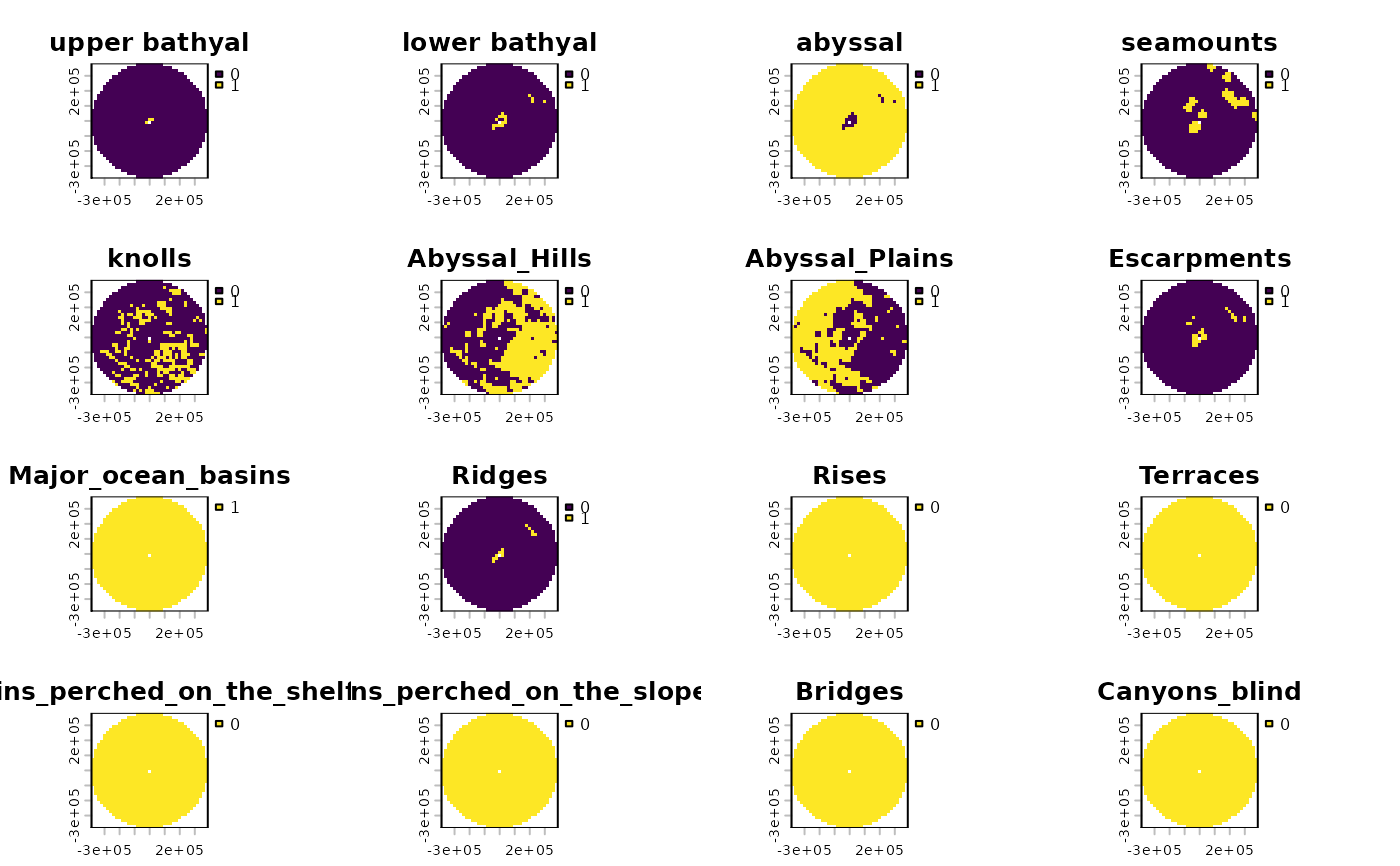
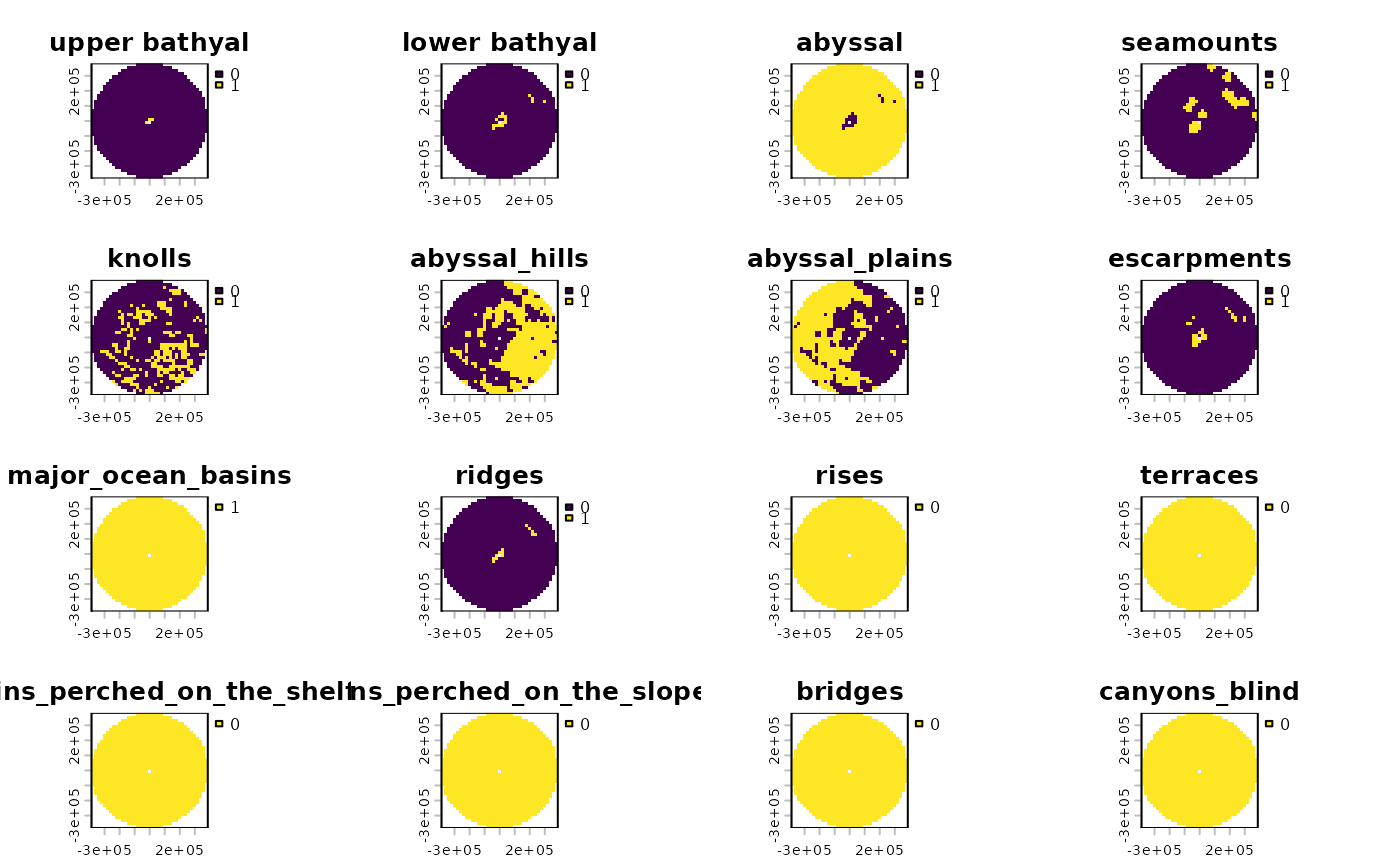
Deploying to gh-pages from @ emlab-ucsb/oceandatr@0b45abaec1e8cd2b5c26dff977d3adb7f58db5a4 🚀

diff --git a/news/index.html b/news/index.html
@@ -39,6 +39,16 @@
 <h2 class="pkg-version" data-toc-text="development version" id="oceandatr-development-version">oceandatr (development version)<a class="anchor" aria-label="anchor" href="#oceandatr-development-version"></a></h2>
 </div>
     <div class="section level2">
+<h2 class="pkg-version" data-toc-text="0.2.5" id="oceandatr-025">oceandatr 0.2.5<a class="anchor" aria-label="anchor" href="#oceandatr-025"></a></h2>
+<ul><li>Remove all data - this is now in the separate <code>oceandatrsets</code> package</li>
+<li>Update data references to use <code>oceandatrsets</code>
+</li>
+<li>Add <code>oceandatrsets</code> dependency</li>
+<li>Use <code>pak</code> instead of <code>remotes</code> for Github install (<code>remotes</code> is superseded)</li>
+<li>Use R-Universe for <code>gfwr</code> install</li>
+<li>Remove some get_features() tests that take a long time and are repeating individual function tests</li>
+</ul></div>
+    <div class="section level2">
 <h2 class="pkg-version" data-toc-text="0.2.4" id="oceandatr-024">oceandatr 0.2.4<a class="anchor" aria-label="anchor" href="#oceandatr-024"></a></h2>
 <ul><li>Switch to <code>rerddap</code> package for downloading Bio-Oracle data</li>
 <li>Remove <code>biooracler</code> dependency</li>

diff --git a/index.html b/index.html
@@ -68,10 +68,9 @@
 </h2>
 <p>You can install oceandatr from <a href="https://github.com/" class="external-link">GitHub</a> with:</p>
 <div class="sourceCode" id="cb1"><pre class="downlit sourceCode r">
-<code class="sourceCode R"><span><span class="kw">if</span> <span class="op">(</span><span class="op">!</span><span class="kw"><a href="https://rdrr.io/r/base/library.html" class="external-link">require</a></span><span class="op">(</span><span class="va"><a href="https://remotes.r-lib.org" class="external-link">remotes</a></span><span class="op">)</span><span class="op">)</span> <span class="fu"><a href="https://rdrr.io/r/utils/install.packages.html" class="external-link">install.packages</a></span><span class="op">(</span><span class="st">"remotes"</span><span class="op">)</span></span>
-<span><span class="co">#might need to increase timeout as it is a large package</span></span>
-<span><span class="fu"><a href="https://rdrr.io/r/base/options.html" class="external-link">options</a></span><span class="op">(</span>timeout <span class="op">=</span> <span class="fl">9999</span><span class="op">)</span></span>
-<span><span class="fu">remotes</span><span class="fu">::</span><span class="fu"><a href="https://remotes.r-lib.org/reference/install_github.html" class="external-link">install_github</a></span><span class="op">(</span><span class="st">"emlab-ucsb/oceandatr"</span><span class="op">)</span></span></code></pre></div>
+<code class="sourceCode R"><span><span class="kw">if</span> <span class="op">(</span><span class="op">!</span><span class="kw"><a href="https://rdrr.io/r/base/library.html" class="external-link">require</a></span><span class="op">(</span><span class="va"><a href="https://pak.r-lib.org/" class="external-link">pak</a></span><span class="op">)</span><span class="op">)</span> <span class="fu"><a href="https://rdrr.io/r/utils/install.packages.html" class="external-link">install.packages</a></span><span class="op">(</span><span class="st">"pak"</span><span class="op">)</span></span>
+<span></span>
+<span><span class="fu">pak</span><span class="fu">::</span><span class="fu"><a href="https://pak.r-lib.org/reference/pkg_install.html" class="external-link">pkg_install</a></span><span class="op">(</span><span class="st">"emlab-ucsb/oceandatr"</span><span class="op">)</span></span></code></pre></div>
 </div>
 </div>
 <div class="section level1">

diff --git a/reference/get_coral_habitat.html b/reference/get_coral_habitat.html
@@ -111,8 +111,8 @@ models for the following species groups:</p><ul><li><p>Antipatharia: The global 
     <h2 id="ref-examples">Examples<a class="anchor" aria-label="anchor" href="#ref-examples"></a></h2>
     <div class="sourceCode"><pre class="sourceCode r"><code><span class="r-in"><span><span class="co"># Get EEZ data first</span></span></span>
 <span class="r-in"><span><span class="va">bermuda_eez</span> <span class="op">&lt;-</span> <span class="fu"><a href="https://emlab-ucsb.github.io/spatialgridr/reference/get_boundary.html" class="external-link">get_boundary</a></span><span class="op">(</span>name <span class="op">=</span> <span class="st">"Bermuda"</span><span class="op">)</span></span></span>
-<span class="r-msg co"><span class="r-pr">#&gt;</span> Cache is fresh. Reading: <span style="color: #0000BB;">/tmp/RtmpOrg3LK/eez-2205f12f/eez.shp</span></span>
-<span class="r-msg co"><span class="r-pr">#&gt;</span> (Last Modified: <span style="font-style: italic;">2026-05-19 08:39:47.622631</span>)</span>
+<span class="r-msg co"><span class="r-pr">#&gt;</span> Cache is fresh. Reading: <span style="color: #0000BB;">/tmp/Rtmp9V5OhW/eez-2205f12f/eez.shp</span></span>
+<span class="r-msg co"><span class="r-pr">#&gt;</span> (Last Modified: <span style="font-style: italic;">2026-05-28 01:04:26.162288</span>)</span>
 <span class="r-in"><span><span class="co"># Get raw coral habitat data</span></span></span>
 <span class="r-in"><span><span class="va">coral_habitat</span> <span class="op">&lt;-</span> <span class="fu">get_coral_habitat</span><span class="op">(</span>spatial_grid <span class="op">=</span> <span class="va">bermuda_eez</span>, raw <span class="op">=</span> <span class="cn">TRUE</span><span class="op">)</span></span></span>
 <span class="r-in"><span><span class="fu">terra</span><span class="fu">::</span><span class="fu"><a href="https://rspatial.github.io/terra/reference/plot.html" class="external-link">plot</a></span><span class="op">(</span><span class="va">coral_habitat</span><span class="op">)</span></span></span>

diff --git a/reference/get_ecoregion.html b/reference/get_ecoregion.html
@@ -97,8 +97,8 @@ the Ecoregion.</p>
     <h2 id="ref-examples">Examples<a class="anchor" aria-label="anchor" href="#ref-examples"></a></h2>
     <div class="sourceCode"><pre class="sourceCode r"><code><span class="r-in"><span><span class="co">#' # Get EEZ data first</span></span></span>
 <span class="r-in"><span><span class="va">bermuda_eez</span> <span class="op">&lt;-</span> <span class="fu"><a href="https://emlab-ucsb.github.io/spatialgridr/reference/get_boundary.html" class="external-link">get_boundary</a></span><span class="op">(</span>name <span class="op">=</span> <span class="st">"Bermuda"</span><span class="op">)</span></span></span>
-<span class="r-msg co"><span class="r-pr">#&gt;</span> Cache is fresh. Reading: <span style="color: #0000BB;">/tmp/RtmpOrg3LK/eez-2205f12f/eez.shp</span></span>
-<span class="r-msg co"><span class="r-pr">#&gt;</span> (Last Modified: <span style="font-style: italic;">2026-05-19 08:39:47.622631</span>)</span>
+<span class="r-msg co"><span class="r-pr">#&gt;</span> Cache is fresh. Reading: <span style="color: #0000BB;">/tmp/Rtmp9V5OhW/eez-2205f12f/eez.shp</span></span>
+<span class="r-msg co"><span class="r-pr">#&gt;</span> (Last Modified: <span style="font-style: italic;">2026-05-28 01:04:26.162288</span>)</span>
 <span class="r-in"><span><span class="co"># Get Marine Ecoregions of the World data</span></span></span>
 <span class="r-in"><span><span class="va">ecoregions</span> <span class="op">&lt;-</span> <span class="fu">get_ecoregion</span><span class="op">(</span>spatial_grid <span class="op">=</span> <span class="va">bermuda_eez</span>, raw <span class="op">=</span> <span class="cn">TRUE</span><span class="op">)</span></span></span>
 <span class="r-msg co"><span class="r-pr">#&gt;</span> Spherical geometry (s2) switched off</span>

diff --git a/reference/get_enviro_zones.html b/reference/get_enviro_zones.html
@@ -183,8 +183,8 @@ installations). To find the number of available cores on your systems run
     <h2 id="ref-examples">Examples<a class="anchor" aria-label="anchor" href="#ref-examples"></a></h2>
     <div class="sourceCode"><pre class="sourceCode r"><code><span class="r-in"><span><span class="co"># Get EEZ data first </span></span></span>
 <span class="r-in"><span><span class="va">bermuda_eez</span> <span class="op">&lt;-</span> <span class="fu"><a href="https://emlab-ucsb.github.io/spatialgridr/reference/get_boundary.html" class="external-link">get_boundary</a></span><span class="op">(</span>name <span class="op">=</span> <span class="st">"Bermuda"</span><span class="op">)</span></span></span>
-<span class="r-msg co"><span class="r-pr">#&gt;</span> Cache is fresh. Reading: <span style="color: #0000BB;">/tmp/RtmpOrg3LK/eez-2205f12f/eez.shp</span></span>
-<span class="r-msg co"><span class="r-pr">#&gt;</span> (Last Modified: <span style="font-style: italic;">2026-05-19 08:39:47.622631</span>)</span>
+<span class="r-msg co"><span class="r-pr">#&gt;</span> Cache is fresh. Reading: <span style="color: #0000BB;">/tmp/Rtmp9V5OhW/eez-2205f12f/eez.shp</span></span>
+<span class="r-msg co"><span class="r-pr">#&gt;</span> (Last Modified: <span style="font-style: italic;">2026-05-28 01:04:26.162288</span>)</span>
 <span class="r-in"><span><span class="co"># Get raw Bio-Oracle environmental data for Bermuda</span></span></span>
 <span class="r-in"><span><span class="va">enviro_data</span> <span class="op">&lt;-</span> <span class="fu">get_enviro_zones</span><span class="op">(</span>spatial_grid <span class="op">=</span> <span class="va">bermuda_eez</span>, raw <span class="op">=</span> <span class="cn">TRUE</span>, enviro_zones <span class="op">=</span> <span class="cn">FALSE</span><span class="op">)</span></span></span>
 <span class="r-msg co"><span class="r-pr">#&gt;</span> Retrieving environmental data from https://erddap.bio-oracle.org/erddap/, or disk if previously downloaded.</span>

diff --git a/reference/get_features.html b/reference/get_features.html
@@ -135,8 +135,8 @@ format.</p>
     <h2 id="ref-examples">Examples<a class="anchor" aria-label="anchor" href="#ref-examples"></a></h2>
     <div class="sourceCode"><pre class="sourceCode r"><code><span class="r-in"><span><span class="co"># Grab EEZ data first </span></span></span>
 <span class="r-in"><span><span class="va">bermuda_eez</span> <span class="op">&lt;-</span> <span class="fu"><a href="https://emlab-ucsb.github.io/spatialgridr/reference/get_boundary.html" class="external-link">get_boundary</a></span><span class="op">(</span>name <span class="op">=</span> <span class="st">"Bermuda"</span><span class="op">)</span></span></span>
-<span class="r-msg co"><span class="r-pr">#&gt;</span> Cache is fresh. Reading: <span style="color: #0000BB;">/tmp/RtmpOrg3LK/eez-2205f12f/eez.shp</span></span>
-<span class="r-msg co"><span class="r-pr">#&gt;</span> (Last Modified: <span style="font-style: italic;">2026-05-19 08:39:47.622631</span>)</span>
+<span class="r-msg co"><span class="r-pr">#&gt;</span> Cache is fresh. Reading: <span style="color: #0000BB;">/tmp/Rtmp9V5OhW/eez-2205f12f/eez.shp</span></span>
+<span class="r-msg co"><span class="r-pr">#&gt;</span> (Last Modified: <span style="font-style: italic;">2026-05-28 01:04:26.162288</span>)</span>
 <span class="r-in"><span><span class="co"># Get raw data for Bermuda's EEZ</span></span></span>
 <span class="r-in"><span><span class="va">raw_data</span> <span class="op">&lt;-</span> <span class="fu">get_features</span><span class="op">(</span>spatial_grid <span class="op">=</span> <span class="va">bermuda_eez</span>, raw <span class="op">=</span> <span class="cn">TRUE</span><span class="op">)</span></span></span>
 <span class="r-msg co"><span class="r-pr">#&gt;</span> Getting depth zones...</span>

diff --git a/reference/get_geomorphology.html b/reference/get_geomorphology.html
@@ -116,8 +116,8 @@ a more recent dataset using <code><a href="get_seamounts.html">get_seamounts()</
     <h2 id="ref-examples">Examples<a class="anchor" aria-label="anchor" href="#ref-examples"></a></h2>
     <div class="sourceCode"><pre class="sourceCode r"><code><span class="r-in"><span><span class="co"># Grab EEZ data first </span></span></span>
 <span class="r-in"><span><span class="va">bermuda_eez</span> <span class="op">&lt;-</span> <span class="fu"><a href="https://emlab-ucsb.github.io/spatialgridr/reference/get_boundary.html" class="external-link">get_boundary</a></span><span class="op">(</span>name <span class="op">=</span> <span class="st">"Bermuda"</span><span class="op">)</span></span></span>
-<span class="r-msg co"><span class="r-pr">#&gt;</span> Cache is fresh. Reading: <span style="color: #0000BB;">/tmp/RtmpOrg3LK/eez-2205f12f/eez.shp</span></span>
-<span class="r-msg co"><span class="r-pr">#&gt;</span> (Last Modified: <span style="font-style: italic;">2026-05-19 08:39:47.622631</span>)</span>
+<span class="r-msg co"><span class="r-pr">#&gt;</span> Cache is fresh. Reading: <span style="color: #0000BB;">/tmp/Rtmp9V5OhW/eez-2205f12f/eez.shp</span></span>
+<span class="r-msg co"><span class="r-pr">#&gt;</span> (Last Modified: <span style="font-style: italic;">2026-05-28 01:04:26.162288</span>)</span>
 <span class="r-in"><span><span class="co"># Get geomorphology for the EEZ</span></span></span>
 <span class="r-in"><span><span class="va">bermuda_geomorph</span> <span class="op">&lt;-</span> <span class="fu">get_geomorphology</span><span class="op">(</span>spatial_grid <span class="op">=</span> <span class="va">bermuda_eez</span>, raw <span class="op">=</span> <span class="cn">TRUE</span><span class="op">)</span></span></span>
 <span class="r-msg co"><span class="r-pr">#&gt;</span> Spherical geometry (s2) switched off</span>

diff --git a/reference/get_knolls.html b/reference/get_knolls.html
@@ -93,8 +93,8 @@ from <a href="https://doi.org/10.1016/j.dsr.2011.02.004" class="external-link">Y
     <h2 id="ref-examples">Examples<a class="anchor" aria-label="anchor" href="#ref-examples"></a></h2>
     <div class="sourceCode"><pre class="sourceCode r"><code><span class="r-in"><span><span class="co"># Get EEZ data first </span></span></span>
 <span class="r-in"><span><span class="va">bermuda_eez</span> <span class="op">&lt;-</span> <span class="fu"><a href="https://emlab-ucsb.github.io/spatialgridr/reference/get_boundary.html" class="external-link">get_boundary</a></span><span class="op">(</span>name <span class="op">=</span> <span class="st">"Bermuda"</span><span class="op">)</span></span></span>
-<span class="r-msg co"><span class="r-pr">#&gt;</span> Cache is fresh. Reading: <span style="color: #0000BB;">/tmp/RtmpOrg3LK/eez-2205f12f/eez.shp</span></span>
-<span class="r-msg co"><span class="r-pr">#&gt;</span> (Last Modified: <span style="font-style: italic;">2026-05-19 08:39:47.622631</span>)</span>
+<span class="r-msg co"><span class="r-pr">#&gt;</span> Cache is fresh. Reading: <span style="color: #0000BB;">/tmp/Rtmp9V5OhW/eez-2205f12f/eez.shp</span></span>
+<span class="r-msg co"><span class="r-pr">#&gt;</span> (Last Modified: <span style="font-style: italic;">2026-05-28 01:04:26.162288</span>)</span>
 <span class="r-in"><span><span class="co"># Get raw knolls data for Bermuda's EEZ</span></span></span>
 <span class="r-in"><span><span class="va">knolls</span> <span class="op">&lt;-</span> <span class="fu">get_knolls</span><span class="op">(</span>spatial_grid<span class="op">=</span> <span class="va">bermuda_eez</span>, raw <span class="op">=</span> <span class="cn">TRUE</span><span class="op">)</span></span></span>
 <span class="r-msg co"><span class="r-pr">#&gt;</span> Spherical geometry (s2) switched off</span>

diff --git a/reference/get_seamounts.html b/reference/get_seamounts.html
@@ -110,8 +110,8 @@ the radius specified</p>
     <h2 id="ref-examples">Examples<a class="anchor" aria-label="anchor" href="#ref-examples"></a></h2>
     <div class="sourceCode"><pre class="sourceCode r"><code><span class="r-in"><span><span class="co"># Get EEZ data first </span></span></span>
 <span class="r-in"><span><span class="va">bermuda_eez</span> <span class="op">&lt;-</span> <span class="fu"><a href="https://emlab-ucsb.github.io/spatialgridr/reference/get_boundary.html" class="external-link">get_boundary</a></span><span class="op">(</span>name <span class="op">=</span> <span class="st">"Bermuda"</span><span class="op">)</span></span></span>
-<span class="r-msg co"><span class="r-pr">#&gt;</span> Cache is fresh. Reading: <span style="color: #0000BB;">/tmp/RtmpOrg3LK/eez-2205f12f/eez.shp</span></span>
-<span class="r-msg co"><span class="r-pr">#&gt;</span> (Last Modified: <span style="font-style: italic;">2026-05-19 08:39:47.622631</span>)</span>
+<span class="r-msg co"><span class="r-pr">#&gt;</span> Cache is fresh. Reading: <span style="color: #0000BB;">/tmp/Rtmp9V5OhW/eez-2205f12f/eez.shp</span></span>
+<span class="r-msg co"><span class="r-pr">#&gt;</span> (Last Modified: <span style="font-style: italic;">2026-05-28 01:04:26.162288</span>)</span>
 <span class="r-in"><span><span class="co"># Get raw seamounts data</span></span></span>
 <span class="r-in"><span><span class="va">seamount_peaks</span> <span class="op">&lt;-</span> <span class="fu">get_seamounts</span><span class="op">(</span>spatial_grid <span class="op">=</span> <span class="va">bermuda_eez</span>, raw <span class="op">=</span> <span class="cn">TRUE</span><span class="op">)</span></span></span>
 <span class="r-msg co"><span class="r-pr">#&gt;</span> Spherical geometry (s2) switched off</span>

diff --git a/articles/usage_prioritization.html b/articles/usage_prioritization.html
@@ -84,7 +84,7 @@ Bioconductor website</p>
 <div class="sourceCode" id="cb2"><pre class="downlit sourceCode r">
 <code class="sourceCode R"><span><span class="kw"><a href="https://rdrr.io/r/base/library.html" class="external-link">library</a></span><span class="op">(</span><span class="va"><a href="https://github.com/GlobalFishingWatch/gfwr" class="external-link">gfwr</a></span><span class="op">)</span></span>
 <span><span class="kw"><a href="https://rdrr.io/r/base/library.html" class="external-link">library</a></span><span class="op">(</span><span class="va"><a href="https://prioritizr.net" class="external-link">prioritizr</a></span><span class="op">)</span></span>
-<span><span class="co">#remotes::install_bioc("lpsymphony")</span></span>
+<span><span class="co">#pak::pkg_install("lpsymphony")</span></span>
 <span><span class="kw"><a href="https://rdrr.io/r/base/library.html" class="external-link">library</a></span><span class="op">(</span><span class="va">lpsymphony</span><span class="op">)</span></span>
 <span><span class="kw"><a href="https://rdrr.io/r/base/library.html" class="external-link">library</a></span><span class="op">(</span><span class="va"><a href="https://github.com/r-tmap/tmap" class="external-link">tmap</a></span><span class="op">)</span> <span class="co">#for making nice maps</span></span>
 <span><span class="kw"><a href="https://rdrr.io/r/base/library.html" class="external-link">library</a></span><span class="op">(</span><span class="va"><a href="https://rspatial.org/" class="external-link">terra</a></span><span class="op">)</span> <span class="co">#for raster data handling</span></span>

diff --git a/news/index.md b/news/index.md
@@ -2,6 +2,17 @@
 
 ## oceandatr (development version)
 
+## oceandatr 0.2.5
+
+- Remove all data - this is now in the separate `oceandatrsets` package
+- Update data references to use `oceandatrsets`
+- Add `oceandatrsets` dependency
+- Use `pak` instead of `remotes` for Github install (`remotes` is
+  superseded)
+- Use R-Universe for `gfwr` install
+- Remove some get_features() tests that take a long time and are
+  repeating individual function tests
+
 ## oceandatr 0.2.4
 
 - Switch to `rerddap` package for downloading Bio-Oracle data

diff --git a/index.md b/index.md
@@ -12,10 +12,9 @@ You can install oceandatr from [GitHub](https://github.com/) with:
 
 ``` r
 
-if (!require(remotes)) install.packages("remotes")
-#might need to increase timeout as it is a large package
-options(timeout = 9999)
-remotes::install_github("emlab-ucsb/oceandatr")
+if (!require(pak)) install.packages("pak")
+
+pak::pkg_install("emlab-ucsb/oceandatr")
 ```
 
 # Getting gridded ocean data